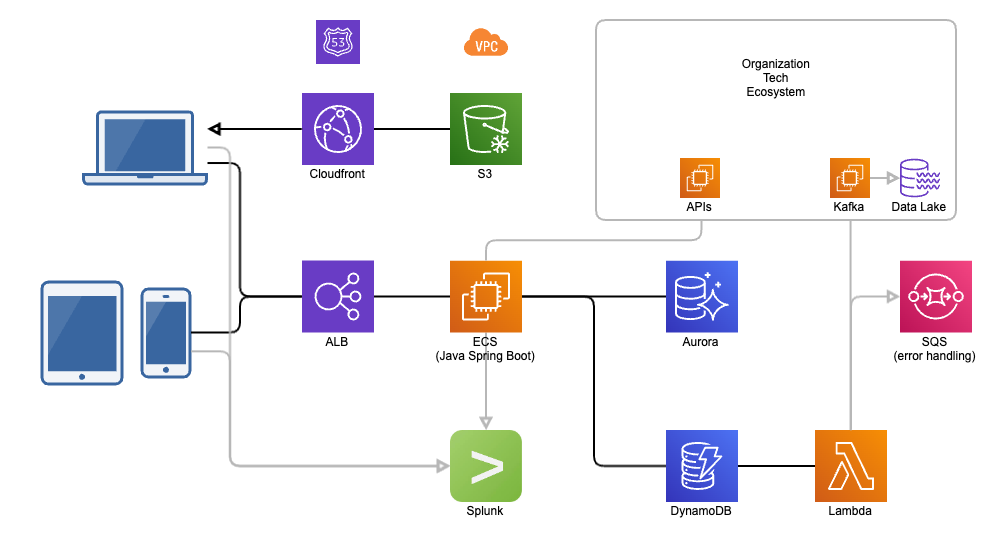
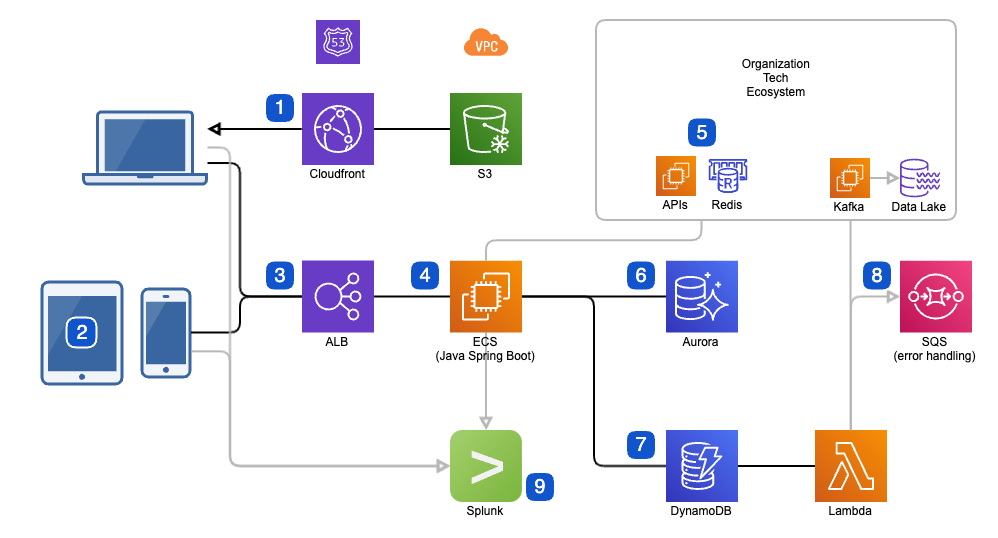
Updated diagram and text...
... to be more like the AWS Architecture diagrams

diff --git a/README.md b/README.md
@@ -1,9 +1,19 @@
 # Game Microservice Architecture and Pipeline
-The following architecture and pipelines were used to create a microservice into a monolithic application (my mandate as a result of an acquisition of the company I cofounded). To best serve our teacher users, we created cross-platform deployments to Support Chromebook and iPad usage, and the systems would have easily ported to android, though sales did not drive us there.
+The following architecture and pipelines were used to create a microservice into a monolithic application. To best serve our users, we created cross-platform deployments to Support Chromebook and iPad usage, and upon request, the systems would have easily ported to android. This architecture provides a scalable, performant, and flexible solution for building a cross-platform mobile game with a Java Spring Boot backend connected to both Aurora and DynamoDB databases and a frontend that utilizes WebAssembly embedded in a React page as well as native iOS apps.
 
 ## Architecture
 
 ![alt text](game_service_architecture.png "Game Service Architecture")
+
+1.	Static game WebAssembly code and React web pages served through Cloudfront via S3 to minimize latency. WebAssembly is a low-level binary format that allows for high-performance code execution in the browser, meaning the games had fast load times and better performance (exported from Unity3d.)
+2.	In addition, the games were also deployed as a native iOS app with a Swift-C++ bridge (partially exported from Unity3d.) This provided an optimized experience for iOS users.
+3.	Traffic routed by an ALB enabling secure communication (TLS, JWT, and API keys) between the frontends and backend via REST APIs.
+4.	The backend runs on ECS, a managed container orchestration service that simplifies the deployment, management, and scaling of containerized, high-performance applications, making it a good choice for mobile games backends. The backend was containerized using Docker and then deployed to ECS leveraging blue-green deploys to allow releases during near-peak usage. AWS services were provisioned using Terraform, a common Infrastructure as Code (IaC) tool. Codewise, we leveraged Java Spring Boot, a widely used framework for building enterprise-grade applications in Java.
+5.	As a microservice, the backend required services from the tech ecosystem communicating via APIs to get user information and a JWT system leveraging Redis to improve security and provide common metadata for transactions and logging.
+6.	Aurora was used as a managed PostgreSQL-compatible relational DB for primary storage.
+7.	DynamoDB (NoSQL DB) was used for temporary storage of data that would be ETL-ed via a Lambda pipeline to Kafka then the data lake. Both DBs provided scalable, durable, and performant storage and flexibility for our different data types.
+8.	SQS was used as a dead-letter queue for exception handling of data that failed to send to kafka for various reasons.
+9.	Most systems sent logging and metrics along with a common session identifier to Splunk for correlation across systems and to create KPI dashboards.
 
 *Benefits:*
 1. Scalability: Using Java Spring Boot on ECS allows the backend to scale up or down as needed to handle varying levels of traffic, ensuring a smooth user experience. It also provided multi-version concurrency control for older iOS app versions (institutional customers took longer to update.)
@@ -11,21 +21,6 @@ The following architecture and pipelines were used to create a microservice into
 3. Flexibility: The use of WebAssembly embedded in a React page as well as native iOS apps provides flexibility in terms of supporting multiple platforms.
 4. Performance: We optimized web artifacts for download speed (small memory footprints served via CDN) and iOS for aesthetic beauty. The use of WebAssembly provides near-native performance, allowing the game to run smoothly and quickly in the browser. 
 5. Ease of Deployment: The use of Parameter Store and Secrets Manager for managing configuration data and secrets, as well as the use of Cloudfront and S3 for serving static assets, simplifies the deployment process and reduces the potential for errors or misconfigurations.
-
-*Overview:*
-This architecture provides a scalable, performant, and flexible solution for building a cross-platform mobile game with a Java Spring Boot backend connected to both Aurora and DynamoDB databases and a frontend that utilizes WebAssembly embedded in a React page as well as native iOS apps.
-
-*Backend Architecture:*
-* Java Spring Boot: A widely used framework for building enterprise-grade applications in Java. It provides a robust set of tools for building scalable and high-performance applications, making it a good choice for mobile games backends.
-* Amazon Elastic Container Service (ECS): This managed container orchestration service simplified the deployment, management, and scaling of our containerized applications..
-* Aurora and DynamoDB DBs: We used Aurora as a managed PostgreSQL-compatible relational DB for primary storage while DynamoDB (NoSQL DB) was used for temporary storage of data that would be ETL-ed via a Lambda pipeline to Kafka then the data lake. Both provided scalable, durable, and performant storage and flexibility for our different data types.
-
-*Frontend Architecture:*
-* React: Used as the primary front-end language in the organization, we used it mainly as a responsive container for the WebAssembly artifacts.
-* WebAssembly: A low-level binary format that allows for high-performance code execution in the browser, meaning the games had fast load times and better performance (exported from Unity3d.)
-* Native iOS apps: The games were also deployed in a native iOS app with a Swift-C++ bridge (partially exported from Unity3d.) This provided an optimized experience for iOS users.
-
-Communication between the frontend and backend was achieved through REST APIs that used TLS, JWT, and API keys for security. The backend was containerized using Docker and then deployed to ECS leveraging blue-green deploys to allow deploys to occur during near-peak usage. AWS services were provisioned using Terraform, a common Infrastructure as Code (IaC) tool.
 
 ## SDLC Pipeline
 
